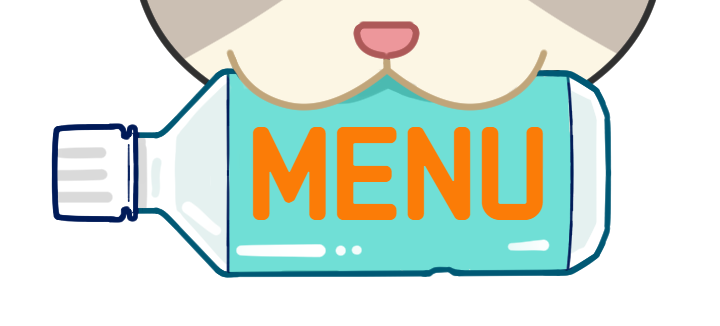
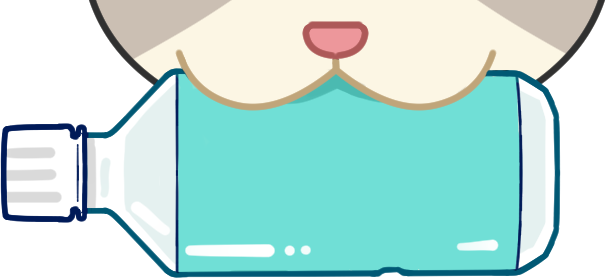
MENUボタン: 画像更新・MENU文字をCSS重ね(Baloo2/白→ホバー&クリックでオレンジ)・位置サイズ調整

diff --git a/style.css b/style.css
@@ -1,4 +1,4 @@
-@import url('https://fonts.googleapis.com/css2?family=Murecho:wght@800;900&family=Rampart+One&family=Shippori+Mincho:wght@500;600;800&display=swap');
+@import url('https://fonts.googleapis.com/css2?family=Baloo+2:wght@800&family=Murecho:wght@800;900&family=Rampart+One&family=Shippori+Mincho:wght@500;600;800&display=swap');
 *{margin:0;padding:0;box-sizing:border-box;}
 html{overflow-x:clip;}
 body{font-family:'Hiragino Kaku Gothic Pro','Yu Gothic','Noto Sans JP',sans-serif;color:#222;background:#fff;line-height:1.7;display:flex;flex-direction:column;min-height:100vh;overflow-x:clip;max-width:100vw;}
@@ -85,9 +85,11 @@ a:hover{color:#a8862e;}
 }
 body::before{content:'';position:fixed;inset:0;background-image:url('img/moyou-nyanko.png');background-repeat:repeat;background-size:var(--a7-bg-size) auto;opacity:var(--a7-bg-opacity);z-index:-1;pointer-events:none;}
 .a7-topbar{display:flex;justify-content:flex-end;align-items:flex-start;height:var(--topbar-h,96px);padding:0 26px;gap:14px;position:relative;z-index:500;}
-.a7-hamburger{position:absolute;right:var(--menu-right,26px);top:var(--menu-top,1px);width:var(--menu-w,260px);height:calc(var(--menu-w,260px)*0.453);background:url('img/menu-cat.png') center/contain no-repeat;border:none;border-radius:0;padding:0;cursor:pointer;box-shadow:none;transition:opacity 0.2s;}
+.a7-hamburger{position:absolute;right:var(--menu-right,26px);top:var(--menu-top,1px);width:var(--menu-w,260px);height:calc(var(--menu-w,260px)*0.459);background:url('img/menu-cat.png') center/contain no-repeat;border:none;border-radius:0;padding:0;cursor:pointer;box-shadow:none;transition:opacity 0.2s;}
 .a7-hamburger span{display:none!important;}
-.a7-hamburger:hover{opacity:0.85;}
+.a7-hamburger::after{content:"MENU";position:absolute;left:var(--mtxt-x,58%);top:var(--mtxt-y,63%);transform:translate(-50%,-50%);font-family:'Baloo 2','Murecho',sans-serif;font-weight:800;font-size:calc(var(--menu-w,260px)*var(--mtxt-fs,0.17));letter-spacing:var(--mtxt-ls,0.02em);color:#fff;pointer-events:none;transition:color 0.2s,transform 0.2s;text-shadow:0 1px 2px rgba(0,0,0,.18);}
+.a7-hamburger:hover::after{color:#F5870E;}
+.a7-hamburger.open::after{color:#F5870E;}
 .a7-hamburger span{display:block;width:20px;height:2px;background:#0a3d3a;border-radius:2px;transition:transform 0.28s ease,opacity 0.2s;}
 .a7-hamburger.open{opacity:0.85;}
 .a7-hamburger.open span:nth-child(1){transform:translateY(7px) rotate(45deg);}
